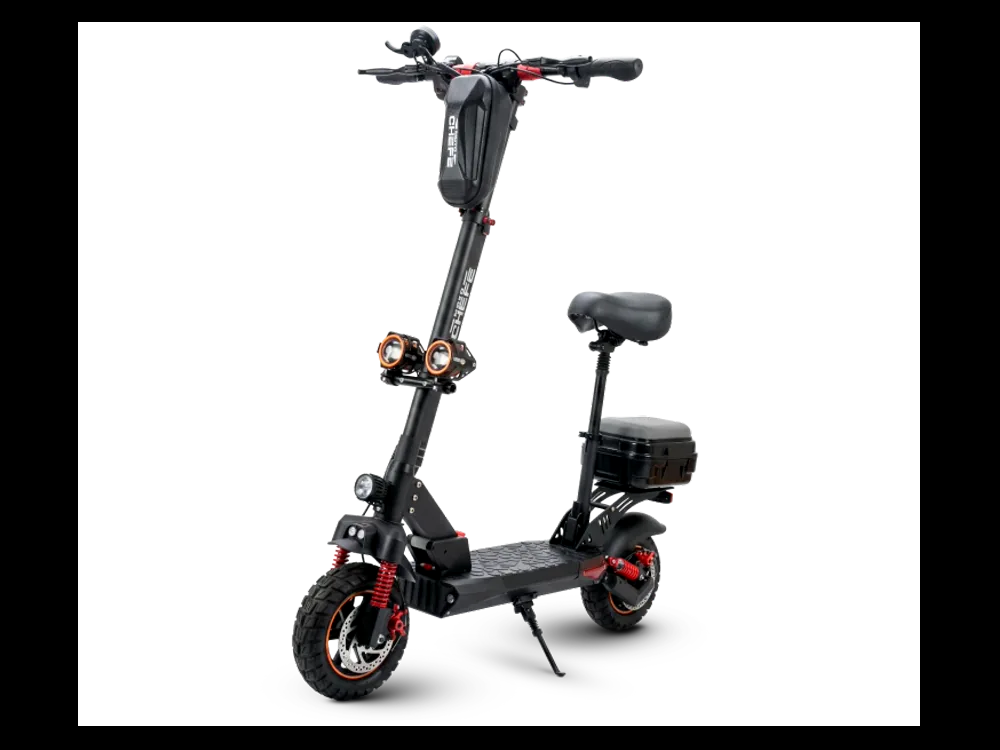
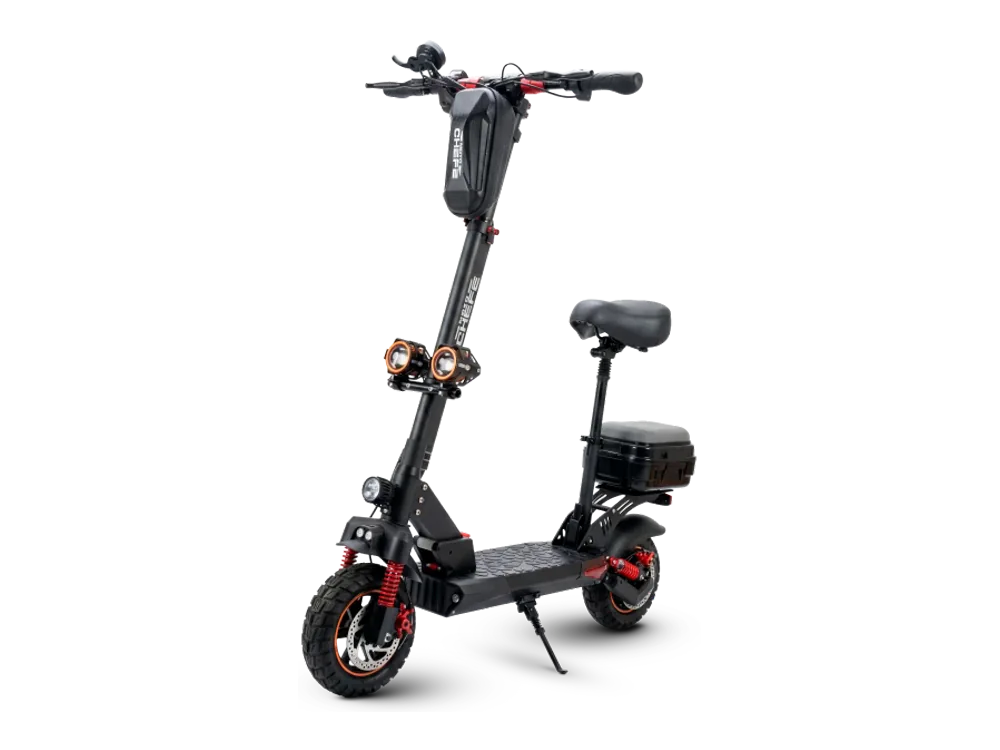
feat: fotos por cor de Titan, Raptor e Lux, e foto do modal inteira no celular
- Titan (branca, cinza, preta), Raptor (branca principal, vermelha,
  preta, cinza) e Lux (preta e vermelha principal, branca, bege, preta)
  com foto propria em cada cor.
- G5 preto agora aparece recortado, sem a tarja preta no modal.
- Modal no celular: a foto nao corta mais as rodas, ocupa a largura toda
  e a fileira de miniaturas some quando o modelo tem uma foto so.

Changed region(s): [[0.0, 0.0, 1.0, 1.0], [0.558, 0.736, 0.682, 0.828], [0.496, 0.7973, 0.589, 0.92]]

diff --git a/assets/js/catalogo.js b/assets/js/catalogo.js
@@ -15,8 +15,8 @@
    · Bravus: ficha recebida. A lista de equipamentos NÃO vem nela, foi herdada
      da linha Evon: confirmar com a loja se ele tem mesmo marcha ré, NFC e
      alarme antes de publicar. O tom do Cinza Zenith também é aproximado.
-   · Voe Lux e Voe Susan: o catálogo escreve "VEREFICAR CORES" no lugar dos
-     swatches, então ficam sem cores até a confirmação.
+   · Voe Susan: o catálogo escreve "VEREFICAR CORES" no lugar dos swatches,
+     então fica sem cores até a confirmação. (As da Lux a loja confirmou.)
    · Voe Chopper: removido do site a pedido do cliente. Está no catálogo do
      fabricante, mas fora da vitrine.
    · Voe MC20 Mini aparece no índice do catálogo mas não tem página.
@@ -129,6 +129,11 @@ const COR = {
     hex: '#1B3053',
     imagem: 'assets/img/swatches/reino-unido.svg',
   },
+
+  /* Entraram com as fotos novas da Lux, com hex amostrado na propria foto:
+     o bege na lataria, e o preto e o vermelho cada um na sua regiao. */
+  bege: { nome: 'Bege', hex: '#D5CBAF' },
+  pretovermelho: { nome: 'Preto e vermelho', bicolor: ['#171A1A', '#C72422'] },
 };
 
 const cores = (...chaves) => chaves.map((k) => COR[k]);
@@ -196,12 +201,14 @@ function voe(slug, nome, dados) {
     categoria: dados.categoria,
     classificacao: dados.classificacao,
     chamada: null, // o catálogo do fabricante não traz texto de venda por modelo
-    foto: `assets/img/models/voe-${slug}-card.webp`,
+    /* `foto` própria quando a principal vem das fotos por cor: o card usa o
+       mesmo arquivo da galeria, e o modal abre com a imagem já em cache. */
+    foto: dados.foto || `assets/img/models/voe-${slug}-card.webp`,
     recorte: true,
     alt: dados.alt,
     // Um slide só por padrão (o catálogo traz uma foto). Modelos com material
     // extra do cliente passam `galeria` própria e sobrescrevem isso.
-    galeria: dados.galeria || [{ src: `assets/img/models/voe-${slug}-1.webp`, alt: dados.alt }],
+    galeria: dados.galeria || [{ src: dados.foto || `assets/img/models/voe-${slug}-1.webp`, alt: dados.alt }],
     specs: dados.specs,
     equipamentos: dados.equipamentos,
     cores: dados.cores || null,
@@ -360,6 +367,7 @@ window.URBANA_MODELOS = [
   voe('lux', 'Lux', {
     categoria: 'autopropelido',
     classificacao: 'autopropelido',
+    foto: 'assets/img/models/voe-lux-cor-pretovermelho.webp',
     alt: 'Scooter elétrica Voe Lux preta e vermelha com baú, recorte sem fundo',
     specs: {
       ...VOE_AUTO,
@@ -375,12 +383,27 @@ window.URBANA_MODELOS = [
       ...VOE_EQUIP_BASE, 'Marcha ré', 'Modo parking', 'Banco com espaço para garupa',
       'Baú', 'Chaves reserva', 'Roda dianteira de liga aro 10',
     ],
-    cores: null, // catálogo escreve "VEREFICAR CORES"
+    // Cores confirmadas pela loja. Preto e vermelho primeiro: é a foto principal.
+    cores: [
+      { ...COR.pretovermelho, galeria: [
+        { src: 'assets/img/models/voe-lux-cor-pretovermelho.webp', alt: 'Voe Lux preta com detalhes vermelhos e baú, de perfil' },
+      ] },
+      { ...COR.branco, galeria: [
+        { src: 'assets/img/models/voe-lux-cor-branco.webp', alt: 'Voe Lux branca com base preta e baú, de perfil' },
+      ] },
+      { ...COR.bege, galeria: [
+        { src: 'assets/img/models/voe-lux-cor-bege.webp', alt: 'Voe Lux bege com base preta e baú, de perfil' },
+      ] },
+      { ...COR.preto, galeria: [
+        { src: 'assets/img/models/voe-lux-cor-preto.webp', alt: 'Voe Lux preta com baú, de perfil' },
+      ] },
+    ],
   }),
   voe('raptor', 'Raptor', {
     categoria: 'autopropelido',
     classificacao: 'autopropelido',
-    alt: 'Scooter elétrica Voe Raptor vermelha com baú, recorte sem fundo',
+    foto: 'assets/img/models/voe-raptor-cor-branco.webp',
+    alt: 'Scooter elétrica Voe Raptor branca com baú, recorte sem fundo',
     specs: {
       ...VOE_AUTO,
       potencia: { valor: 1000, unidade: 'W' },
@@ -395,7 +418,23 @@ window.URBANA_MODELOS = [
       'Baú', 'Botão de alerta', 'Chaves reserva', 'Bloqueio na roda traseira',
       'Roda dianteira de liga aro 12',
     ],
-    cores: cores('vermelho', 'branco', 'preto', 'cinza'),
+    /* A primeira cor é a da foto principal: o modal abre nela, e card e modal
+       precisam mostrar a mesma moto. */
+    cores: [
+      { ...COR.branco, galeria: [
+        { src: 'assets/img/models/voe-raptor-cor-branco.webp', alt: 'Voe Raptor branca com grafismo preto e baú, em três quartos frontal' },
+      ] },
+      { ...COR.vermelho, galeria: [
+        { src: 'assets/img/models/voe-raptor-cor-vermelho.webp', alt: 'Voe Raptor vermelha com baú, em três quartos frontal' },
+      ] },
+      { ...COR.preto, galeria: [
+        { src: 'assets/img/models/voe-raptor-cor-preto.webp', alt: 'Voe Raptor preta com grafismo branco e baú, em três quartos frontal' },
+      ] },
+      // COR.cinza é escuro (#575757); esta lataria é prata azulada, amostrada na foto.
+      { ...COR.cinza, hex: '#B1B4BD', galeria: [
+        { src: 'assets/img/models/voe-raptor-cor-cinza.webp', alt: 'Voe Raptor cinza clara com grafismo branco e baú, em três quartos frontal' },
+      ] },
+    ],
   }),
   voe('sol', 'Sol', {
     categoria: 'autopropelido',
@@ -431,7 +470,8 @@ window.URBANA_MODELOS = [
   voe('titan', 'Titan', {
     categoria: 'autopropelido',
     classificacao: 'autopropelido',
-    alt: 'Scooter elétrica Voe Titan branca e preta com baú, recorte sem fundo',
+    foto: 'assets/img/models/voe-titan-cor-branco.webp',
+    alt: 'Scooter elétrica Voe Titan branca com farol duplo e baú, recorte sem fundo',
     specs: {
       ...VOE_AUTO,
       potencia: { valor: 1000, unidade: 'W' },
@@ -445,7 +485,19 @@ window.URBANA_MODELOS = [
       ...VOE_EQUIP_BASE, 'Marcha ré', 'Modo parking', 'Banco com espaço para garupa',
       'Baú de 27 litros', 'Chaves reserva', 'Roda dianteira de liga aro 12',
     ],
-    cores: cores('vermelho', 'branco', 'preto', 'cinza'),
+    // Sem vermelha: a loja não trabalha com essa cor da Titan.
+    cores: [
+      { ...COR.branco, galeria: [
+        { src: 'assets/img/models/voe-titan-cor-branco.webp', alt: 'Voe Titan branca com farol duplo e baú, em três quartos frontal' },
+      ] },
+      // COR.cinza é escuro (#575757); esta lataria é cinza clara, amostrada na foto.
+      { ...COR.cinza, hex: '#9A9FA6', galeria: [
+        { src: 'assets/img/models/voe-titan-cor-cinza.webp', alt: 'Voe Titan cinza com farol duplo e baú, em três quartos frontal' },
+      ] },
+      { ...COR.preto, galeria: [
+        { src: 'assets/img/models/voe-titan-cor-preto.webp', alt: 'Voe Titan preta com farol duplo e baú, em três quartos frontal' },
+      ] },
+    ],
   }),
   voe('x-infinity', 'X-Infinity', {
     categoria: 'autopropelido',
@@ -745,7 +797,7 @@ window.URBANA_MODELOS = [
     ],
     cores: [
       { ...COR.preto, galeria: [
-        { src: 'assets/img/models/voe-g5-cor-preto.webp', alt: 'Patinete Voe G5 preto em três quartos, sobre fundo escuro', recorte: false, inteira: true, fundo: '#000000' },
+        { src: 'assets/img/models/voe-g5-cor-preto.webp', alt: 'Patinete Voe G5 preto em três quartos, com banco e bolsa no guidão' },
         { src: 'assets/img/models/voe-g5-cor-preto-2.webp', alt: 'Voe G5 preto de perfil, com banco e bagageiro traseiro', recorte: false, inteira: true },
       ] },
     ],

diff --git a/assets/css/urbana.css b/assets/css/urbana.css
@@ -1238,6 +1238,11 @@ body.menu-aberto .header__toggle {
   flex: 0 0 100%;
   scroll-snap-align: center;
   display: grid;
+  /* Trilha presa a altura do slide. Na trilha `auto` do padrao, o
+     `height: 100%` da foto se resolvia contra o proprio conteudo: a foto
+     crescia na proporcao natural, passava do quadro e o `overflow` cortava
+     as rodas (medido no celular: foto de 314 px num quadro de 277). */
+  grid-template: minmax(0, 1fr) / minmax(0, 1fr);
   place-items: center;
   min-width: 0;
   overflow: hidden;
@@ -1290,6 +1295,7 @@ body.menu-aberto .header__toggle {
   overflow-x: auto;
   scrollbar-width: thin;
 }
+.modal__miniaturas[hidden] { display: none; }
 .modal__mini {
   flex: none;
   width: 74px;
@@ -1514,7 +1520,16 @@ body.menu-aberto .header__toggle {
     height: 100dvh;
     border-radius: 0;
   }
-  .modal__galeria { height: 40dvh; }
+  /* Altura pela proporcao das fotos (4:3), e nao por uma fatia fixa da tela:
+     a foto ocupa a largura toda sem sobrar nem cortar. O teto vale para a
+     area inteira, miniaturas incluidas, e so age em celular baixo, onde 4:3
+     da largura espremeria a ficha entre a foto e o botao. */
+  .modal__galeria { height: auto; max-height: 44dvh; }
+  /* `stretch` explicito: item de grid com aspect-ratio nao estica por padrao,
+     e sem isso o teto encolhia a area mas nao o slider, que vazava por cima. */
+  .modal__slider { aspect-ratio: 4 / 3; align-self: stretch; }
+  .modal__miniaturas { padding: var(--urb-8) var(--urb-12); }
+  .modal__mini { width: 58px; }
   .modal__titulo { font-size: 28px; }
   .modal__topo { padding: var(--urb-24) var(--urb-24) var(--urb-12); }
   .modal__corpo { padding: 0 var(--urb-24) var(--urb-16); }

diff --git a/assets/js/app.js b/assets/js/app.js
@@ -641,6 +641,8 @@
           </div>`;
       }).join('');
 
+      // Com uma foto só não há o que escolher, e a fileira roubaria altura da foto.
+      $('#modal-miniaturas').hidden = fotos.length < 2;
       $('#modal-miniaturas').innerHTML = fotos.map((f, k) => `
         <button class="modal__mini" type="button" data-foto="${k}" aria-current="${k === i}"
                 aria-label="Ver foto ${k + 1} de ${fotos.length}">
